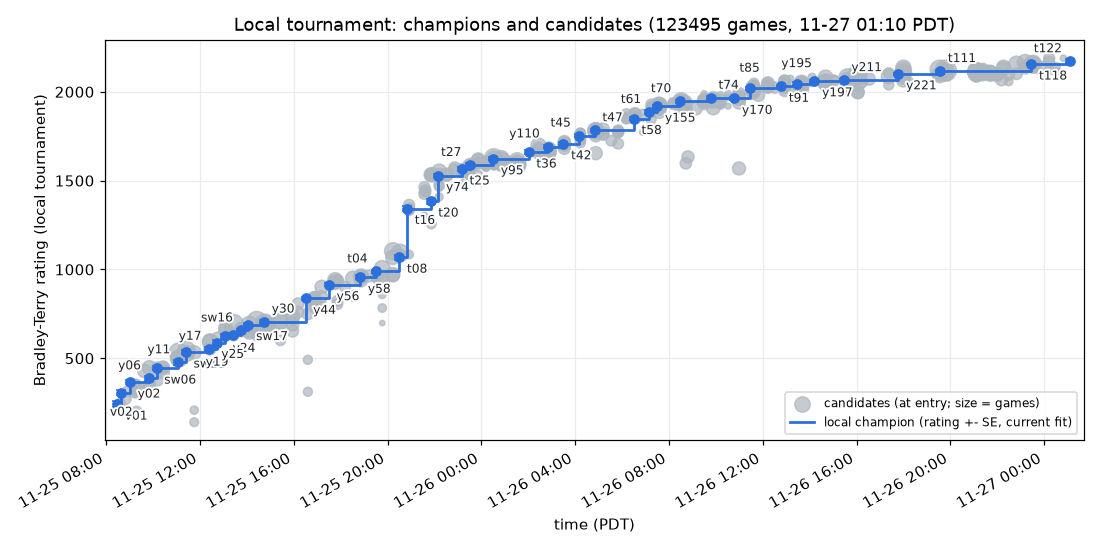
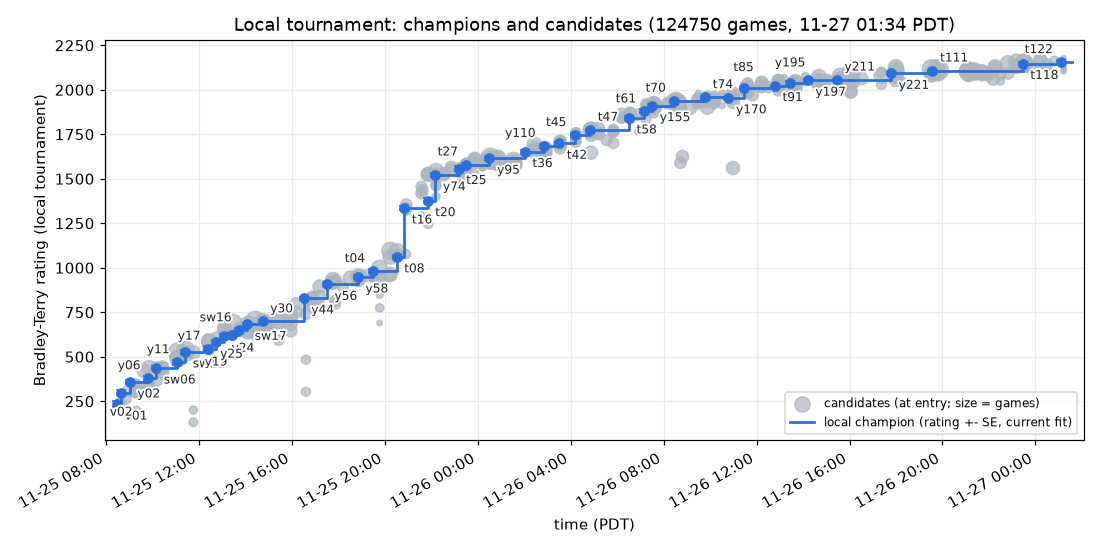
prod: retire y251 (flat after 888); holding two slots for field study 10's tactic copies
Claude-Session: https://claude.ai/code/session_01SzziPSCWtjsjju9cnThDf5

diff --git a/progress/local-elo.md b/progress/local-elo.md
@@ -1,53 +1,53 @@
 # Local tournament Elo
 
-Bradley-Terry ratings of our own bots in the local tournament (`tools/tourney.py`), all 123495 games in one fit as of 2026-11-27 01:11 PDT, so every point is on the same scale; earlier champions are shown at their current rating, and "Gain" is the rating over the champion it replaced. `tools/tourney.py rank` rewrites this table; `tools/tourney.py chart` also redraws the chart.
+Bradley-Terry ratings of our own bots in the local tournament (`tools/tourney.py`), all 124750 games in one fit as of 2026-11-27 01:35 PDT, so every point is on the same scale; earlier champions are shown at their current rating, and "Gain" is the rating over the champion it replaced. `tools/tourney.py rank` rewrites this table; `tools/tourney.py chart` also redraws the chart.
 
 ![local elo](local-elo.png)
 
 | Champion from (PDT) | Bot | Change on base | Submission | Rating +- SE | Gain | Games |
 |---|---|---|---:|---:|---:|---:|
-| 2026-11-25 08:28 | v01 | foundation bot |  | 241 +- 18 |  | 435 |
-| 2026-11-25 08:39 | v02 | nav wall-follow fix + bytecode guards on v01 | #6 | 306 +- 13 | +65 | 801 |
-| 2026-11-25 09:01 | y02 | paint-heavy tower mix + paint towers upgraded first on v02 | #7 | 365 +- 11 | +59 | 1080 |
-| 2026-11-25 09:49 | y06 | 3 opening soldiers instead of 2 on y02 | #35 | 386 +- 13 | +21 | 700 |
-| 2026-11-25 10:09 | sw06 | no moppers before r80; a third of spawns moppers after (field study 1) on y02 | #36 | 444 +- 12 | +79 | 863 |
-| 2026-11-25 11:04 | y11 | mid-game mix 3 moppers per 6 (soldier mopper splasher mopper soldier mopper) on sw06 | #37 | 477 +- 14 | +33 | 655 |
-| 2026-11-25 11:24 | sw11 | at most 1 helper soldier per ruin (more ruins claimed in parallel) on y11 | #38 | 535 +- 11 | +58 | 1159 |
-| 2026-11-25 12:24 | y17 | sw11 + moppers prefer enemies within r2 25 of our towers (sw12) on sw11 | #39 | 553 +- 12 | +18 | 871 |
-| 2026-11-25 12:44 | y19 | sw11 with soldiers joining an occupied ruin only when adjacent (r2<=2) on y17 | #40 | 588 +- 14 | +35 | 678 |
-| 2026-11-25 13:04 | y24 | y17 with mopper defence widened (DEFEND_R2 36 / bonus 80) on y19 | #41 | 623 +- 13 | +35 | 679 |
-| 2026-11-25 13:24 | y25 | y19 (adjacent-only ruin helping) + y17 tower-defending moppers on y24 | #42 | 632 +- 12 | +9 | 898 |
-| 2026-11-25 13:44 | sw16 | y25 + soldier siege: with no ruin and paint>=80 kite a known enemy tower within r2 64 on y25 | #43 | 656 +- 11 | +24 | 976 |
-| 2026-11-25 14:04 | sw17 | y28 (siege from 50 paint r2 100) + splasher siege (towers weigh 40; walk to known tower within r2 100 at paint>=100) on sw16 | #44 | 689 +- 10 | +33 | 1110 |
-| 2026-11-25 14:44 | y30 | y28 with soldier siege from 30 paint within r2 144 (no splasher siege) on sw17 | #45 | 706 +- 7 | +17 | 2377 |
-| 2026-11-25 16:30 | y44 | study 3 tactic 3 (enemy refill policy): return at 50% paint (soldier 100/splasher 100/mopper 40) + end-of-turn top-up from any adjacent ally tower on y30 | #46 | 837 +- 8 | +131 | 2250 |
-| 2026-11-25 17:30 | y56 | study 3 tactic 4 (tower churn): a drained L1 money tower with intact pattern and an ally adjacent disintegrates at >=2000 chips; adjacent robots re-complete it for a fresh 500 paint on y44 | #47 | 914 +- 10 | +77 | 1320 |
-| 2026-11-25 18:50 | y58 | study 3 tactic 2 (early soldiers paint patterns not coverage): exploring soldiers paint no coverage before r50 on y56 | #48 | 956 +- 11 | +42 | 997 |
-| 2026-11-25 19:30 | t04 | t02 (no coverage painting before r80) + t03 (units wait beside drained money towers and repair their pattern so churn fires; study 3 tactics 2 and 4) on y58 | #49 | 989 +- 11 | +33 | 1065 |
-| 2026-11-25 20:30 | t08 | study 4 2.2 (contested ruins): soldiers skip a ruin with enemy paint in its visible 5x5 (bad for 50 rounds) on t04 | #50 | 1069 +- 13 | +80 | 775 |
-| 2026-11-25 20:50 | t16 | t12 (t08 + study 4 2.1 spawn freeze 8 rounds in 20 below 1000+cost) + study 4 2.4 money-first: builds money until 8 towers then paint while paint towers < n/5; paint first only if none (all towers known) on t08 | #51 | 1343 +- 12 | +274 | 1213 |
-| 2026-11-25 21:50 | t20 | study 4 2.3: splashers weight enemy towers 30 (was 12) in the splash score on t16 | #52 | 1384 +- 15 | +41 | 587 |
-| 2026-11-25 22:10 | y74 | unit audit (owner prompt #15): splash-grid bug fix (enemy tiles never scored) + moppers stop once enemy paint is in mop reach; built on t16 on t20 | #53 | 1529 +- 10 | +145 | 1255 |
-| 2026-11-25 23:10 | t25 | unit audit + top teams' unit mix (616 S / 662 X / 701 M): after r80 paint towers cycle soldier-splasher-mopper; money towers keep S M X M S M on y74 | #54 | 1565 +- 13 | +36 | 680 |
-| 2026-11-25 23:30 | t27 | top teams' splasher-heavy late mix pushed further: paint towers cycle soldier-splasher-splasher-mopper after r80 on t25 | #55 | 1588 +- 9 | +23 | 1554 |
-| 2026-11-26 00:30 | y95 | upgrade spare 1200 (was 800): chips stay for new towers longer on t27 | #56 | 1623 +- 9 | +35 | 1822 |
-| 2026-11-26 02:01 | t36 | late SRPs (study 4 2.6 / study 3 tactic 7): soldiers without a ruin build SRPs on the x%4==2 y%4==2 lattice from r100 with chips>=1000; splashers avoid repainting SRP secondary tiles on y95 | #57 | 1661 +- 11 | +38 | 977 |
-| 2026-11-26 02:50 | y110 | money towers upgrade only with 2500 chips beyond the cost+spare (was 1000): chips go to new towers and SRPs on t36 | #58 | 1692 +- 10 | +31 | 1260 |
-| 2026-11-26 03:30 | t42 | study 4 3.1 recovery: with every tower known and no money tower left the next ruin is a money tower on y110 | #59 | 1707 +- 10 | +15 | 1332 |
-| 2026-11-26 04:10 | t45 | study 3 tactic 1: after r40 towers spawn only with 1000 chips beyond the unit's cost (no 600-chip window) on t42 | #60 | 1754 +- 10 | +47 | 1226 |
-| 2026-11-26 04:50 | t47 | study 3 tactic 5: a mopper due in the cycle spawns even below the 1000 reserve when an enemy robot is within d2 20 of the tower on t45 | #61 | 1783 +- 7 | +30 | 2398 |
-| 2026-11-26 06:30 | t58 | study 5 2.3: a splasher that has not splashed for 8 rounds (while able to) explores instead of chasing the nearest non-ally tile on t47 | #62 | 1849 +- 11 | +66 | 1087 |
-| 2026-11-26 07:10 | t61 | study 5 2.1 (softened): money towers for builds 1-5; then one more paint tower per 4 towers on t58 | #63 | 1886 +- 11 | +37 | 938 |
-| 2026-11-26 07:30 | y155 | study 5 2.1 tuned: money towers for builds 1-6; then one more paint tower per 4 towers on t61 | #64 | 1919 +- 9 | +33 | 1615 |
-| 2026-11-26 08:27 | t70 | y155 + splashers weight enemy towers 30 (t68) + 2000+ chips makes the next tower a paint tower (y159) on y155 | #65 | 1947 +- 7 | +28 | 2530 |
-| 2026-11-26 09:47 | t74 | moppers weight enemy paint near ruins 40 (study 6 2.1c) on t70 | #66 | 1966 +- 8 | +20 | 2200 |
-| 2026-11-26 10:47 | y170 | soldiers make the next tower a paint tower at 1500+ chips (t63 tuning; was 2000) on t74 | #67 | 1963 +- 7 | -4 | 2823 |
-| 2026-11-26 11:27 | t85 | study 6 2.2 ruin denial from where the soldier stands: a soldier with no ruin paints empty tiles of a ruin the enemy is building; without walking to it on y170 | #68 | 2019 +- 7 | +57 | 2556 |
-| 2026-11-26 12:47 | t91 | study 7 2.5: moppers ignore ruins under enemy towers when weighting ruin paint on t85 | #69 | 2031 +- 6 | +11 | 4064 |
-| 2026-11-26 13:27 | y195 | study 7 2.1a: explore unseen tiles first; up to 16 random draws on t91 | #70 | 2045 +- 9 | +14 | 1349 |
-| 2026-11-26 14:12 | y197 | ruin denial stops at 2 of our tiles (tuning of study 6 2.2) on y195 | #71 | 2061 +- 7 | +16 | 2235 |
-| 2026-11-26 15:27 | y211 | study 7 2.1a tuned: up to 128 random draws for an unseen explore target (was 16) on y197 | #72 | 2065 +- 6 | +4 | 4141 |
-| 2026-11-26 17:47 | y221 | study 8 2.2 (paint the first tower's pattern on the way in; a second soldier on the first ruin) + explore timeout 90; first champion through the confirmation stage (owner #46) on y211 | #73 | 2101 +- 6 | +36 | 4688 |
-| 2026-11-26 19:34 | t111 | splashers attack enemy paint/money towers from a stand-off tile outside their range (study 8 2.4) on y221 | #74 | 2117 +- 5 | +16 | 7332 |
-| 2026-11-26 23:27 | t118 | study 9 2.1b: a soldier on a blocked pattern with no own mopper or splasher in view gives up after 5 turns (was 25); confirmed +71 +-29 in 153 fresh games on t111 | #75 | 2156 +- 7 | +39 | 3219 |
-| 2026-11-27 01:07 | t122 | study 9 2.4: paint-tower dry flags expire after 10 rounds (was 40) and a flagged tower in sight is re-sensed; confirmed +6 +-19 in 378 fresh games; +16 overall on t118 | #76 | 2172 +- 12 | +16 | 968 |
+| 2026-11-25 08:28 | v01 | foundation bot |  | 234 +- 18 |  | 435 |
+| 2026-11-25 08:39 | v02 | nav wall-follow fix + bytecode guards on v01 | #6 | 299 +- 13 | +65 | 801 |
+| 2026-11-25 09:01 | y02 | paint-heavy tower mix + paint towers upgraded first on v02 | #7 | 358 +- 11 | +59 | 1080 |
+| 2026-11-25 09:49 | y06 | 3 opening soldiers instead of 2 on y02 | #35 | 379 +- 13 | +21 | 700 |
+| 2026-11-25 10:09 | sw06 | no moppers before r80; a third of spawns moppers after (field study 1) on y02 | #36 | 436 +- 12 | +79 | 863 |
+| 2026-11-25 11:04 | y11 | mid-game mix 3 moppers per 6 (soldier mopper splasher mopper soldier mopper) on sw06 | #37 | 469 +- 14 | +33 | 655 |
+| 2026-11-25 11:24 | sw11 | at most 1 helper soldier per ruin (more ruins claimed in parallel) on y11 | #38 | 527 +- 11 | +58 | 1159 |
+| 2026-11-25 12:24 | y17 | sw11 + moppers prefer enemies within r2 25 of our towers (sw12) on sw11 | #39 | 545 +- 12 | +18 | 871 |
+| 2026-11-25 12:44 | y19 | sw11 with soldiers joining an occupied ruin only when adjacent (r2<=2) on y17 | #40 | 580 +- 14 | +35 | 678 |
+| 2026-11-25 13:04 | y24 | y17 with mopper defence widened (DEFEND_R2 36 / bonus 80) on y19 | #41 | 615 +- 13 | +35 | 679 |
+| 2026-11-25 13:24 | y25 | y19 (adjacent-only ruin helping) + y17 tower-defending moppers on y24 | #42 | 624 +- 12 | +9 | 898 |
+| 2026-11-25 13:44 | sw16 | y25 + soldier siege: with no ruin and paint>=80 kite a known enemy tower within r2 64 on y25 | #43 | 649 +- 11 | +24 | 976 |
+| 2026-11-25 14:04 | sw17 | y28 (siege from 50 paint r2 100) + splasher siege (towers weigh 40; walk to known tower within r2 100 at paint>=100) on sw16 | #44 | 681 +- 10 | +33 | 1110 |
+| 2026-11-25 14:44 | y30 | y28 with soldier siege from 30 paint within r2 144 (no splasher siege) on sw17 | #45 | 698 +- 7 | +17 | 2377 |
+| 2026-11-25 16:30 | y44 | study 3 tactic 3 (enemy refill policy): return at 50% paint (soldier 100/splasher 100/mopper 40) + end-of-turn top-up from any adjacent ally tower on y30 | #46 | 829 +- 8 | +131 | 2250 |
+| 2026-11-25 17:30 | y56 | study 3 tactic 4 (tower churn): a drained L1 money tower with intact pattern and an ally adjacent disintegrates at >=2000 chips; adjacent robots re-complete it for a fresh 500 paint on y44 | #47 | 906 +- 10 | +77 | 1320 |
+| 2026-11-25 18:50 | y58 | study 3 tactic 2 (early soldiers paint patterns not coverage): exploring soldiers paint no coverage before r50 on y56 | #48 | 948 +- 11 | +42 | 997 |
+| 2026-11-25 19:30 | t04 | t02 (no coverage painting before r80) + t03 (units wait beside drained money towers and repair their pattern so churn fires; study 3 tactics 2 and 4) on y58 | #49 | 981 +- 11 | +33 | 1065 |
+| 2026-11-25 20:30 | t08 | study 4 2.2 (contested ruins): soldiers skip a ruin with enemy paint in its visible 5x5 (bad for 50 rounds) on t04 | #50 | 1061 +- 13 | +80 | 775 |
+| 2026-11-25 20:50 | t16 | t12 (t08 + study 4 2.1 spawn freeze 8 rounds in 20 below 1000+cost) + study 4 2.4 money-first: builds money until 8 towers then paint while paint towers < n/5; paint first only if none (all towers known) on t08 | #51 | 1335 +- 12 | +274 | 1213 |
+| 2026-11-25 21:50 | t20 | study 4 2.3: splashers weight enemy towers 30 (was 12) in the splash score on t16 | #52 | 1376 +- 15 | +41 | 587 |
+| 2026-11-25 22:10 | y74 | unit audit (owner prompt #15): splash-grid bug fix (enemy tiles never scored) + moppers stop once enemy paint is in mop reach; built on t16 on t20 | #53 | 1521 +- 10 | +145 | 1255 |
+| 2026-11-25 23:10 | t25 | unit audit + top teams' unit mix (616 S / 662 X / 701 M): after r80 paint towers cycle soldier-splasher-mopper; money towers keep S M X M S M on y74 | #54 | 1557 +- 13 | +36 | 680 |
+| 2026-11-25 23:30 | t27 | top teams' splasher-heavy late mix pushed further: paint towers cycle soldier-splasher-splasher-mopper after r80 on t25 | #55 | 1580 +- 9 | +23 | 1554 |
+| 2026-11-26 00:30 | y95 | upgrade spare 1200 (was 800): chips stay for new towers longer on t27 | #56 | 1615 +- 9 | +35 | 1822 |
+| 2026-11-26 02:01 | t36 | late SRPs (study 4 2.6 / study 3 tactic 7): soldiers without a ruin build SRPs on the x%4==2 y%4==2 lattice from r100 with chips>=1000; splashers avoid repainting SRP secondary tiles on y95 | #57 | 1653 +- 11 | +38 | 977 |
+| 2026-11-26 02:50 | y110 | money towers upgrade only with 2500 chips beyond the cost+spare (was 1000): chips go to new towers and SRPs on t36 | #58 | 1684 +- 10 | +31 | 1260 |
+| 2026-11-26 03:30 | t42 | study 4 3.1 recovery: with every tower known and no money tower left the next ruin is a money tower on y110 | #59 | 1699 +- 10 | +15 | 1332 |
+| 2026-11-26 04:10 | t45 | study 3 tactic 1: after r40 towers spawn only with 1000 chips beyond the unit's cost (no 600-chip window) on t42 | #60 | 1746 +- 10 | +47 | 1226 |
+| 2026-11-26 04:50 | t47 | study 3 tactic 5: a mopper due in the cycle spawns even below the 1000 reserve when an enemy robot is within d2 20 of the tower on t45 | #61 | 1775 +- 7 | +30 | 2398 |
+| 2026-11-26 06:30 | t58 | study 5 2.3: a splasher that has not splashed for 8 rounds (while able to) explores instead of chasing the nearest non-ally tile on t47 | #62 | 1841 +- 11 | +66 | 1087 |
+| 2026-11-26 07:10 | t61 | study 5 2.1 (softened): money towers for builds 1-5; then one more paint tower per 4 towers on t58 | #63 | 1878 +- 11 | +37 | 938 |
+| 2026-11-26 07:30 | y155 | study 5 2.1 tuned: money towers for builds 1-6; then one more paint tower per 4 towers on t61 | #64 | 1911 +- 9 | +32 | 1615 |
+| 2026-11-26 08:27 | t70 | y155 + splashers weight enemy towers 30 (t68) + 2000+ chips makes the next tower a paint tower (y159) on y155 | #65 | 1938 +- 7 | +28 | 2530 |
+| 2026-11-26 09:47 | t74 | moppers weight enemy paint near ruins 40 (study 6 2.1c) on t70 | #66 | 1958 +- 8 | +20 | 2200 |
+| 2026-11-26 10:47 | y170 | soldiers make the next tower a paint tower at 1500+ chips (t63 tuning; was 2000) on t74 | #67 | 1954 +- 7 | -4 | 2823 |
+| 2026-11-26 11:27 | t85 | study 6 2.2 ruin denial from where the soldier stands: a soldier with no ruin paints empty tiles of a ruin the enemy is building; without walking to it on y170 | #68 | 2011 +- 7 | +57 | 2556 |
+| 2026-11-26 12:47 | t91 | study 7 2.5: moppers ignore ruins under enemy towers when weighting ruin paint on t85 | #69 | 2023 +- 6 | +12 | 4128 |
+| 2026-11-26 13:27 | y195 | study 7 2.1a: explore unseen tiles first; up to 16 random draws on t91 | #70 | 2037 +- 9 | +14 | 1349 |
+| 2026-11-26 14:12 | y197 | ruin denial stops at 2 of our tiles (tuning of study 6 2.2) on y195 | #71 | 2053 +- 7 | +16 | 2235 |
+| 2026-11-26 15:27 | y211 | study 7 2.1a tuned: up to 128 random draws for an unseen explore target (was 16) on y197 | #72 | 2057 +- 6 | +4 | 4141 |
+| 2026-11-26 17:47 | y221 | study 8 2.2 (paint the first tower's pattern on the way in; a second soldier on the first ruin) + explore timeout 90; first champion through the confirmation stage (owner #46) on y211 | #73 | 2092 +- 6 | +35 | 4788 |
+| 2026-11-26 19:34 | t111 | splashers attack enemy paint/money towers from a stand-off tile outside their range (study 8 2.4) on y221 | #74 | 2108 +- 5 | +16 | 7332 |
+| 2026-11-26 23:27 | t118 | study 9 2.1b: a soldier on a blocked pattern with no own mopper or splasher in view gives up after 5 turns (was 25); confirmed +71 +-29 in 153 fresh games on t111 | #75 | 2148 +- 6 | +40 | 3816 |
+| 2026-11-27 01:07 | t122 | study 9 2.4: paint-tower dry flags expire after 10 rounds (was 40) and a flagged tower in sight is re-sensed; confirmed +6 +-19 in 378 fresh games; +16 overall on t118 | #76 | 2155 +- 11 | +8 | 1316 |
